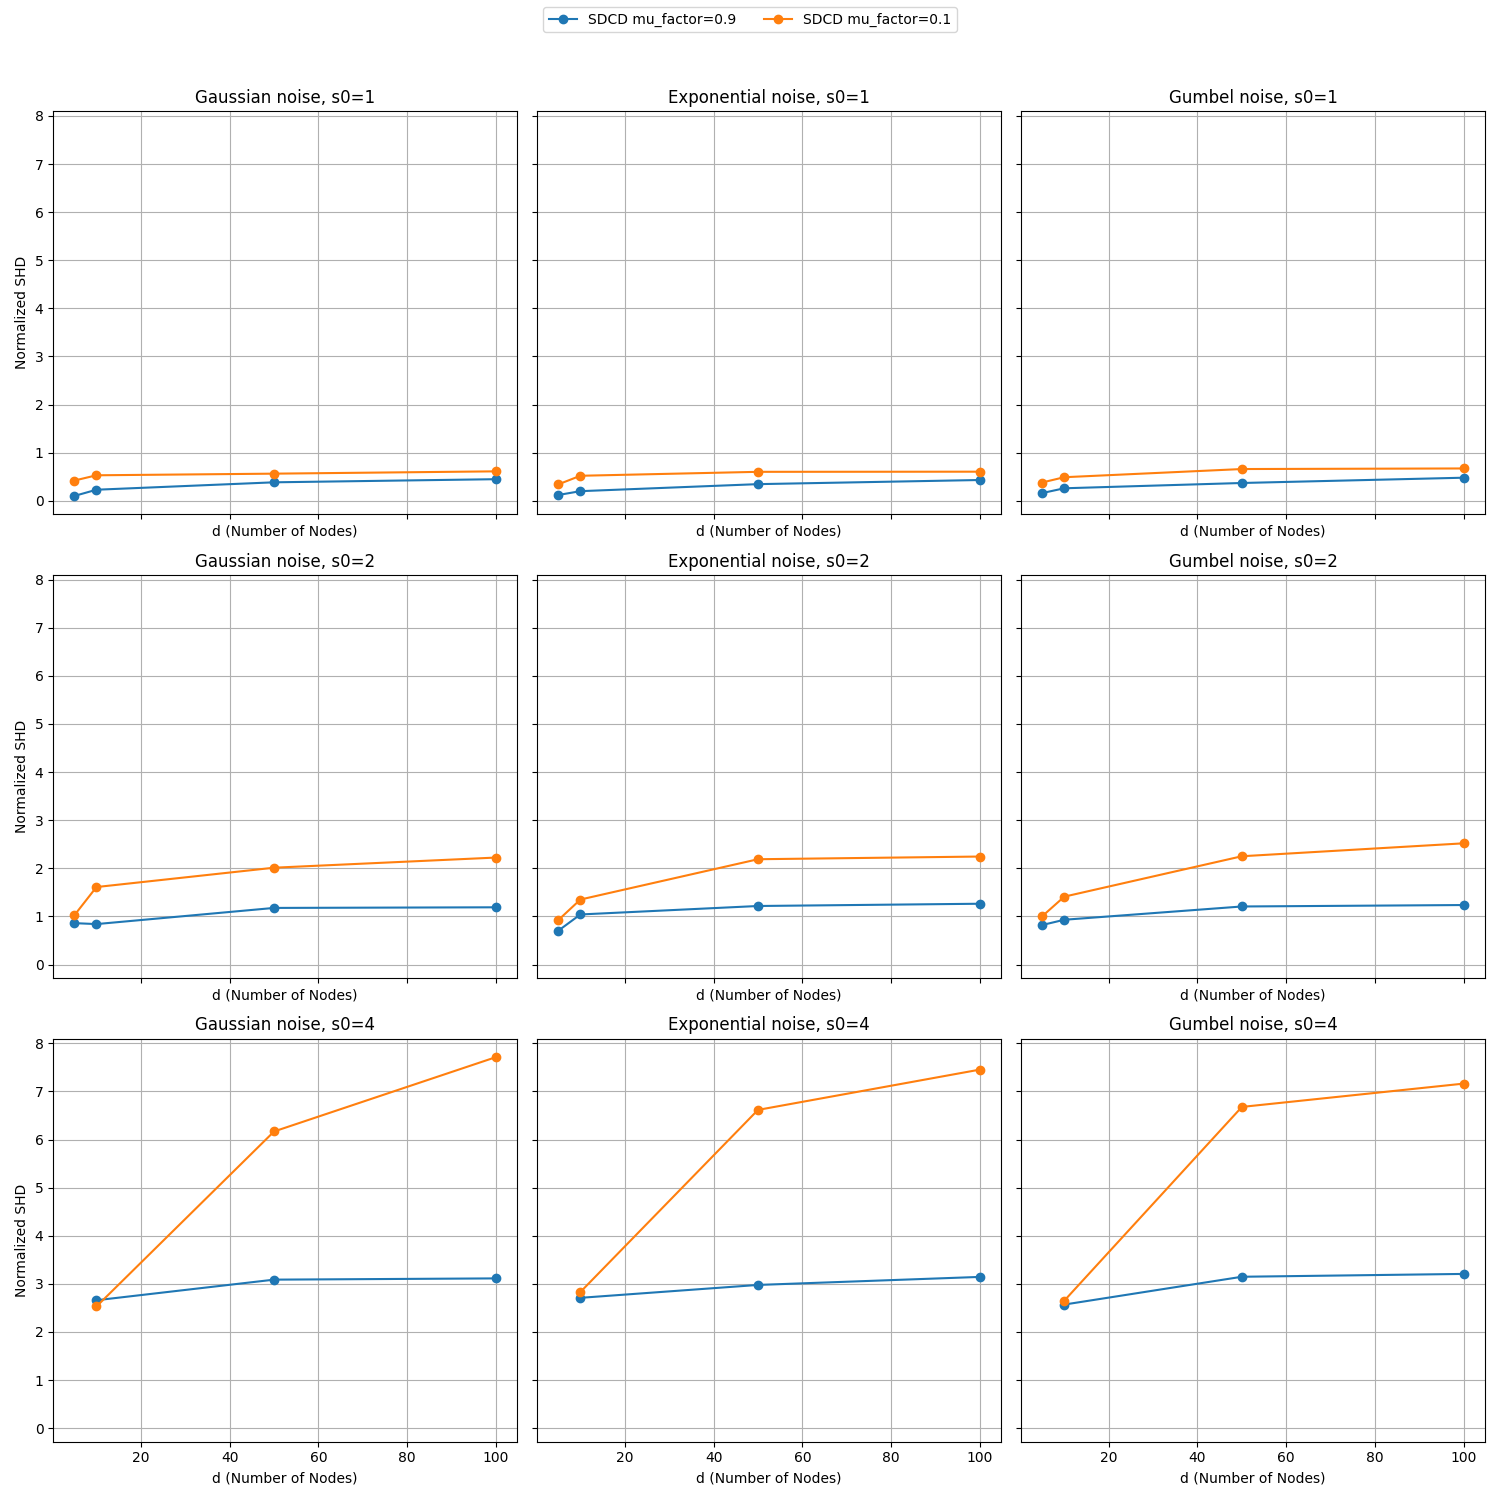
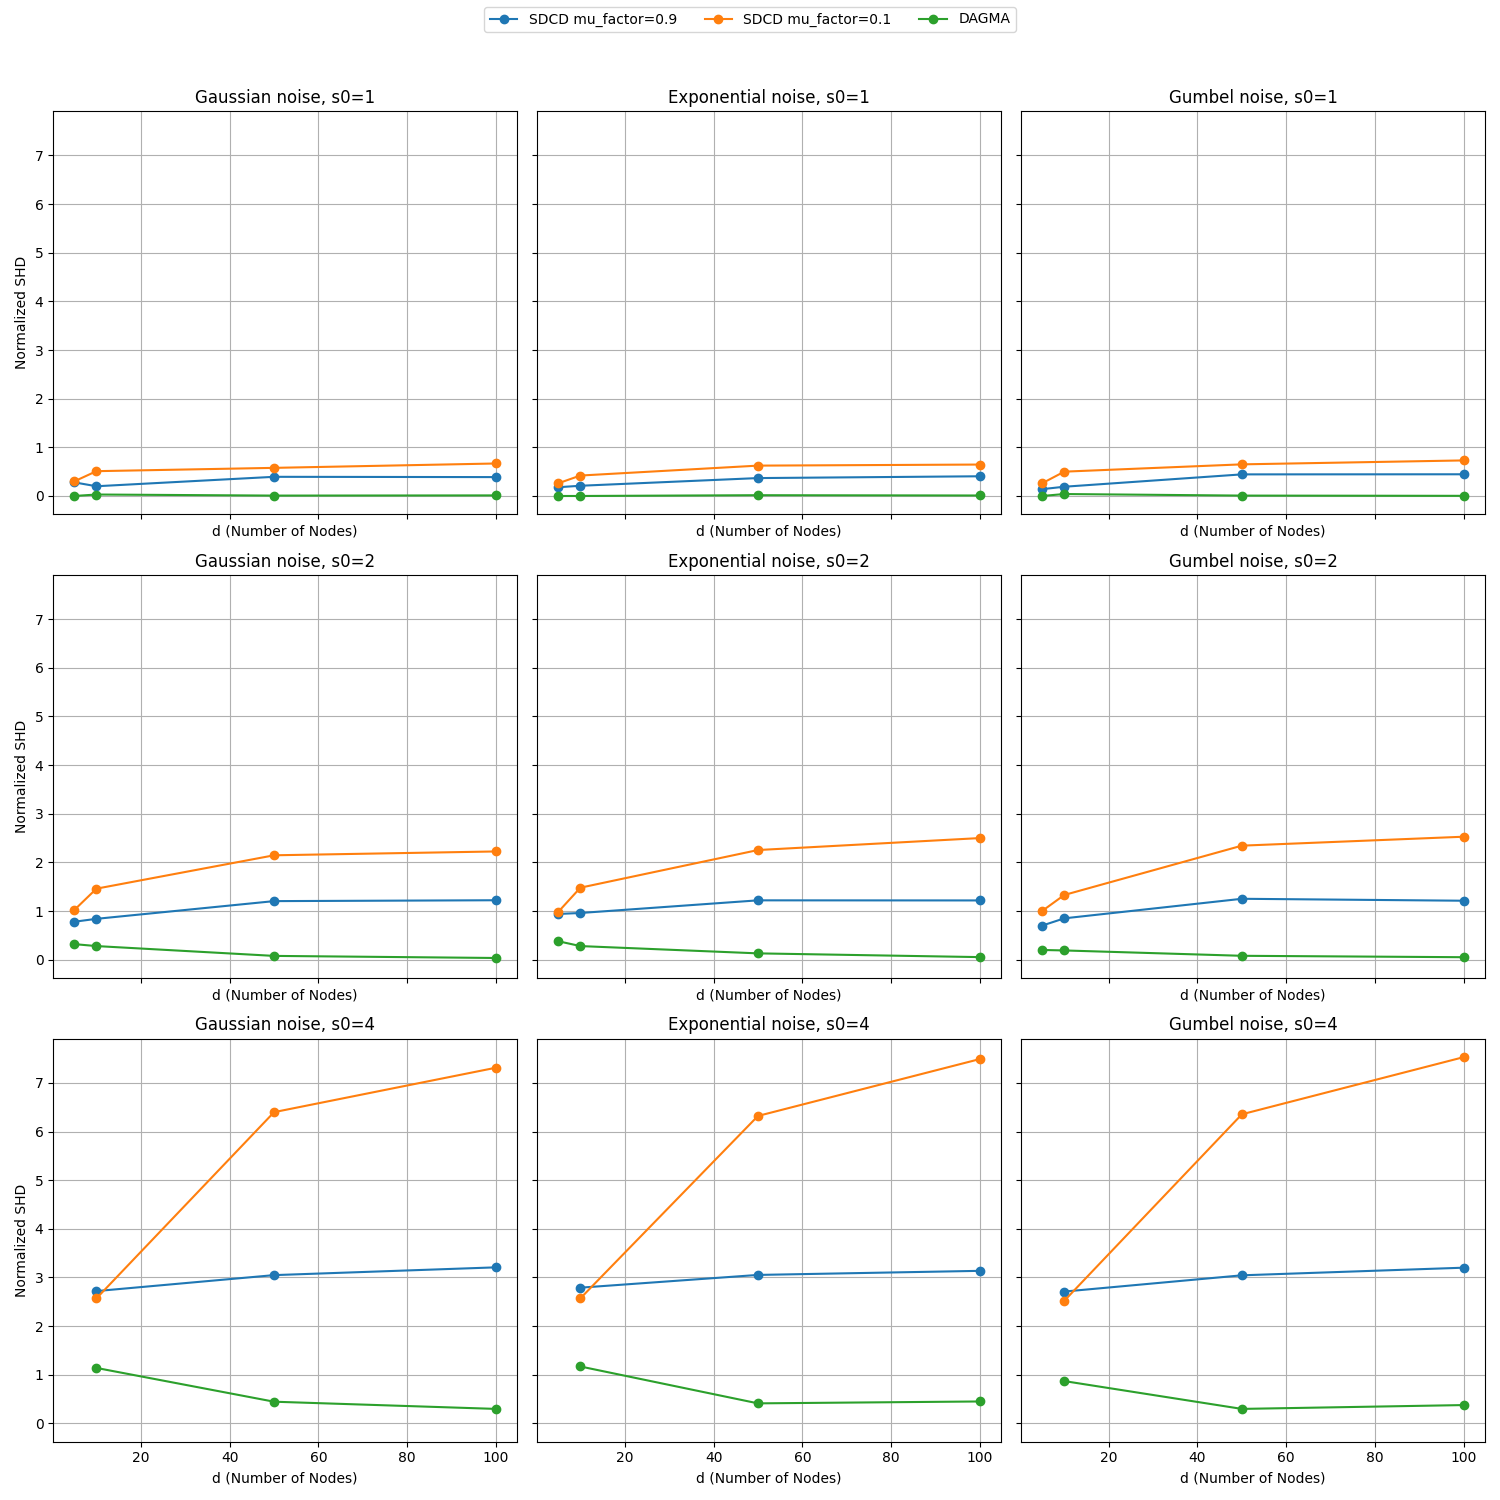
do it properly

diff --git a/examples/sdcd/shd_norm_eq/reconstruct.py b/examples/sdcd/shd_norm_eq/reconstruct.py
@@ -7,7 +7,7 @@ import matplotlib.pyplot as plt
 num_nodes = [5, 10, 50, 100]
 s0_ratios = [1, 2, 4]
 noise_types = ["gauss", "exp", "gumbel"]
-methods = ["SDCD-HIGH", "SDCD-LOW", "GOLEM"]
+methods = ["SDCD-HIGH", "SDCD-LOW", "DAGMA"]
 
 noise_names = {
     "gauss": "Gaussian",
@@ -18,7 +18,7 @@ noise_names = {
 method_names = {
     "SDCD-HIGH": "SDCD mu_factor=0.9",
     "SDCD-LOW": "SDCD mu_factor=0.1",
-    "GOLEM": "GOLEM"
+    "DAGMA": "DAGMA"
 }
 
 num_rows = len(s0_ratios)
